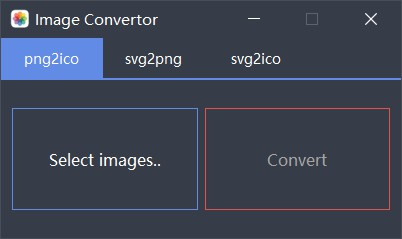
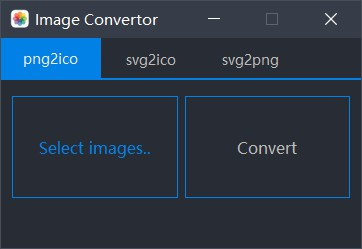
update

diff --git a/interface/ui.py b/interface/ui.py
@@ -6,21 +6,12 @@
 # Create Time: 2020-05-28 22:43
 import sys
 
-from PyQt5 import QtCore, Qt, QtGui
-from PyQt5.QtCore import pyqtSlot
-from PyQt5.QtGui import QIcon, QPalette, QColor, QMouseEvent
+from PyQt5 import QtCore, QtGui
+from PyQt5.QtGui import QIcon
 from PyQt5.QtWidgets import *
 
 from conf.settings import APP_NAME
 from sources import sources
-
-
-class Tab(QTabWidget):
-    def __init__(self, parent=None):
-        super(Tab, self).__init__(parent)
-
-    def enterEvent(self, event: QtCore.QEvent) -> None:
-        self.activateWindow()
 
 
 class UI(QMainWindow):
@@ -42,39 +33,55 @@ class UI(QMainWindow):
         pass
 
     def __init_central(self):
-        self.button_select = QPushButton('Select images..', self)
-        self.button_select.setObjectName('button_select')
-        self.button_select.setCursor(QtGui.QCursor(QtCore.Qt.PointingHandCursor))
-        self.button_convert = QPushButton('Convert', self)
-        self.button_convert.setObjectName('button_convert')
-        self.button_convert.setDisabled(True)
+        self.png2ico_button_select = QPushButton('Select images..', self)
+        self.png2ico_button_select.clicked.connect(self.button_select_clicked)
+        self.png2ico_button_select.setObjectName('button_select')
+        self.png2ico_button_select.setCursor(QtGui.QCursor(QtCore.Qt.PointingHandCursor))
+        self.png2ico_button_convert = QPushButton('Convert', self)
+        self.png2ico_button_convert.clicked.connect(self.button_convert_clicked)
+        self.png2ico_button_convert.setObjectName('button_convert')
+        self.png2ico_button_convert.setDisabled(True)
 
-        layout = QHBoxLayout()
-        layout.addWidget(self.button_select)
-        layout.addWidget(self.button_convert)
+        self.svg2ico_button_select = QPushButton('Select images..', self)
+        self.svg2ico_button_select.clicked.connect(self.button_select_clicked)
+        self.svg2ico_button_select.setObjectName('button_select')
+        self.svg2ico_button_select.setCursor(QtGui.QCursor(QtCore.Qt.PointingHandCursor))
+        self.svg2ico_button_convert = QPushButton('Convert', self)
+        self.svg2ico_button_convert.clicked.connect(self.button_convert_clicked)
+        self.svg2ico_button_convert.setObjectName('button_convert')
+        self.svg2ico_button_convert.setDisabled(True)
+
+        self.svg2png_button_select = QPushButton('Select images..', self)
+        self.svg2png_button_select.clicked.connect(self.button_select_clicked)
+        self.svg2png_button_select.setObjectName('button_select')
+        self.svg2png_button_select.setCursor(QtGui.QCursor(QtCore.Qt.PointingHandCursor))
+        self.svg2png_button_convert = QPushButton('Convert', self)
+        self.svg2png_button_convert.clicked.connect(self.button_convert_clicked)
+        self.svg2png_button_convert.setObjectName('button_convert')
+        self.svg2png_button_convert.setDisabled(True)
+
+        png2ico_layout = QHBoxLayout()
+        png2ico_layout.addWidget(self.png2ico_button_select)
+        png2ico_layout.addWidget(self.png2ico_button_convert)
         self.tab_png2ico = QWidget(self)
-        self.tab_png2ico.setLayout(layout)
+        self.tab_png2ico.setLayout(png2ico_layout)
 
-        layout = QHBoxLayout()
-        layout.addWidget(self.button_select)
-        layout.addWidget(self.button_convert)
-        self.tab_png2ico = QWidget(self)
-        self.tab_png2ico.setLayout(layout)
-
-        _ = QHBoxLayout()
-        _.addWidget(QLabel('Developing', self))
-        self.tab_svg2png = QWidget(self)
-        self.tab_svg2png.setLayout(_)
-
-        _ = QHBoxLayout()
-        _.addWidget(QLabel('Developing', self))
+        svg2ico_layout = QHBoxLayout()
+        svg2ico_layout.addWidget(self.svg2ico_button_select)
+        svg2ico_layout.addWidget(self.svg2ico_button_convert)
         self.tab_svg2ico = QWidget(self)
-        self.tab_svg2ico.setLayout(_)
+        self.tab_svg2ico.setLayout(svg2ico_layout)
 
-        self.central = Tab(self)
+        svg2png_layout = QHBoxLayout()
+        svg2png_layout.addWidget(self.svg2png_button_select)
+        svg2png_layout.addWidget(self.svg2png_button_convert)
+        self.tab_svg2png = QWidget(self)
+        self.tab_svg2png.setLayout(svg2png_layout)
+
+        self.central = QTabWidget(self)
         self.central.addTab(self.tab_png2ico, 'png2ico')
-        self.central.addTab(self.tab_svg2png, 'svg2png')
         self.central.addTab(self.tab_svg2ico, 'svg2ico')
+        self.central.addTab(self.tab_svg2png, 'svg2png')
 
         self.setCentralWidget(self.central)
 
@@ -87,18 +94,14 @@ class UI(QMainWindow):
         self.progress.setTextVisible(False)
         self.statusBar.addPermanentWidget(self.progress)
 
-    @pyqtSlot()
-    def on_button_select_clicked(self):
-        self.files, _ = QFileDialog.getOpenFileNames(self, 'Select images..', '', '*.png')
-        self.statusBar.showMessage(f'{len(self.files)} file(s) selected.', msecs=5000)
-        self.button_convert.setEnabled(bool(self.files))
+    def button_select_clicked(self):
+        pass
 
-    @pyqtSlot()
-    def on_button_convert_clicked(self):
+    def button_convert_clicked(self):
         pass
 
     def disable_button_convert(self):
-        self.button_convert.setDisabled(True)
+        self.png2ico_button_convert.setDisabled(True)
 
     def update_progress(self, msg):
         if msg == 100:
@@ -108,22 +111,6 @@ class UI(QMainWindow):
 
     def update_statusbar(self, msg):
         self.statusBar.showMessage(f'{msg} file(s) converted.', msecs=5000)
-
-    def mousePressEvent(self, event: QMouseEvent):
-        if event.button() == QtCore.Qt.LeftButton:
-            self.m_flag = True
-            self.m_Position = event.globalPos() - self.pos()  # 获取鼠标相对窗口的位置
-            event.accept()
-            self.setCursor(QtGui.QCursor(QtCore.Qt.OpenHandCursor))  # 更改鼠标图标
-
-    def mouseMoveEvent(self, event: QMouseEvent):
-        if QtCore.Qt.LeftButton and self.m_flag:
-            self.move(event.globalPos() - self.m_Position)  # 更改窗口位置
-            event.accept()
-
-    def mouseReleaseEvent(self, event: QMouseEvent):
-        self.m_flag = False
-        self.setCursor(QtGui.QCursor(QtCore.Qt.ArrowCursor))
 
 
 if __name__ == '__main__':

diff --git a/main.py b/main.py
@@ -7,12 +7,12 @@
 import sys
 from math import ceil
 
-from PyQt5 import QtCore, QtGui
 from PyQt5.QtCore import QThread, pyqtSignal
-from PyQt5.QtWidgets import QApplication, QStyleFactory
+from PyQt5.QtWidgets import QApplication, QStyleFactory, QFileDialog
 
 from interface.ui import UI
-from libs.png2ico import png2ico
+
+from libs.convertor import convertor_dict
 
 
 class CommonHelper(object):
@@ -35,7 +35,7 @@ class ThreadConvert(QThread):
     def run(self):
         for num, file in enumerate(self.files):
             self.signal_progress.emit(ceil((num + 1) * 100 / len(self.files)))
-            self.key(file)
+            self.key(file, '32x32')
         self.signal_statusbar.emit(len(self.files))
 
 
@@ -45,15 +45,41 @@ class MainWindow(UI):
 
         self.thread_convert = None
 
-    def on_button_convert_clicked(self):
+    def button_select_clicked(self):
+        current_text = self.central.tabText(self.central.currentIndex())
+        if current_text == 'png2ico':
+            self.files, _ = QFileDialog.getOpenFileNames(self, 'Select images..', '', '*.png')
+        elif current_text == 'svg2ico':
+            self.files, _ = QFileDialog.getOpenFileNames(self, 'Select images..', '', '*.svg')
+        elif current_text == 'svg2png':
+            self.files, _ = QFileDialog.getOpenFileNames(self, 'Select images..', '', '*.svg')
+
+        self.statusBar.showMessage(f'{len(self.files)} file(s) selected.', msecs=5000)
+
+        if current_text == 'png2ico':
+            self.png2ico_button_convert.setEnabled(bool(self.files))
+        elif current_text == 'svg2ico':
+            self.svg2ico_button_convert.setEnabled(bool(self.files))
+        elif current_text == 'svg2png':
+            self.svg2png_button_convert.setEnabled(bool(self.files))
+
+    def button_convert_clicked(self):
         if self.files:
-            self.thread_convert = ThreadConvert(self.files, png2ico)
+            current_text = self.central.tabText(self.central.currentIndex())
+            convertor = convertor_dict[current_text]
+            self.thread_convert = ThreadConvert(self.files, convertor)
             self.progress.setVisible(True)
             self.thread_convert.signal_progress.connect(self.update_progress)
             self.thread_convert.signal_statusbar.connect(self.update_statusbar)
             self.thread_convert.start()
             self.files = None
-            self.button_convert.setDisabled(True)
+
+            if current_text == 'png2ico':
+                self.png2ico_button_convert.setDisabled(True)
+            elif current_text == 'svg2ico':
+                self.svg2ico_button_convert.setDisabled(True)
+            elif current_text == 'svg2png':
+                self.svg2png_button_convert.setDisabled(True)
 
 
 if __name__ == '__main__':

diff --git a/libs/convertor.py b/libs/convertor.py
@@ -1,0 +1,27 @@
+# -*- coding: utf-8 -*- 
+# !/usr/bin/env python3
+
+# Name: convertor.py
+# Author: https://github.com/536
+# Create Time: 2020-05-31 23:15
+import os
+from collections import OrderedDict
+
+import PythonMagick
+
+__all__ = [
+    'convertor_dict'
+]
+
+
+def _convertor(file, size='32x32', input='png', output='ico'):
+    _file, ext = os.path.splitext(file)
+    img = PythonMagick.Image(file)
+    img.sample(size)
+    img.write(_file + '.' + output)
+
+
+convertor_dict = OrderedDict()
+convertor_dict['png2ico'] = lambda file, size: _convertor(file, size, 'png', 'ico')
+convertor_dict['svg2ico'] = lambda file, size: _convertor(file, size, 'svg', 'ico')
+convertor_dict['svg2png'] = lambda file, size: _convertor(file, size, 'svg', 'png')
